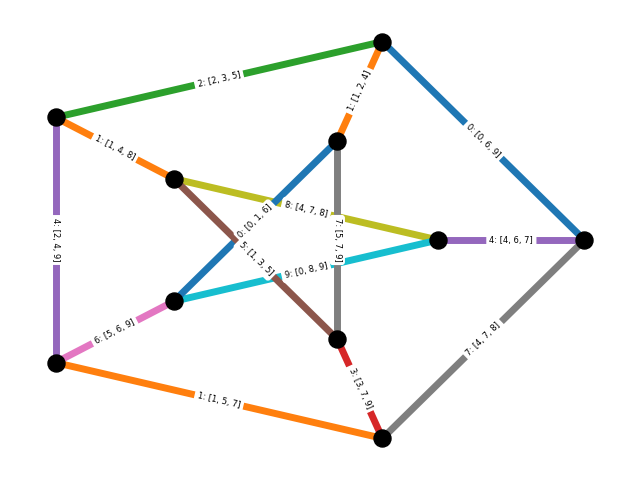
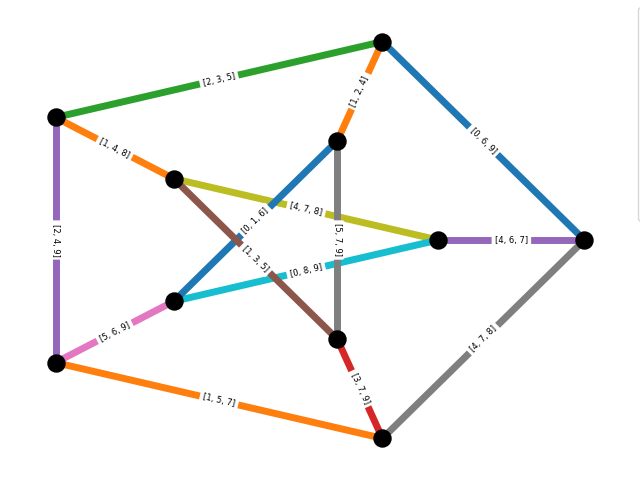
Improve visualisations.

diff --git a/src/petersen-node.py b/src/petersen-node.py
@@ -5,30 +5,28 @@ import matplotlib.patches as mpatches
 import vizing as vz
 
 G = nx.petersen_graph()
-G = lc.list_init_node(G, range(1, 10), 3, 0)
+G = lc.list_init_node(G, range(0, 10), 3, 0)
 G = vz.node_list_colouring_solution(G)
 
 G_layout = nx.shell_layout(G, nlist = [range(5, 10), range(5)], rotate = 0.)
 
-node_labels = dict([(n, str(d['colour']) + ': ' + str(d['permissible'])) for n, d in G.nodes(data = True)])
+node_labels = dict([(n, str(sorted(d['permissible']))) for n, d in G.nodes(data = True)])
 
 node_colors = set(nx.get_node_attributes(G, 'colour').values())
 
-patches = [mpatches.Patch(color = plt.cm.tab10(i), label = f'{i}') for i in node_colors]
-
 nx.draw(G,
         G_layout,
-        edge_color = "black",
-        node_color = list(nx.get_node_attributes(G, 'colour').values()),
-        node_shape = 's',
-        width = 10,
-        node_size = 1300,
-        cmap = plt.cm.tab10,
-        labels = node_labels,
-        font_size = 6,
+         edge_color = "black",
+         node_color = list(nx.get_node_attributes(G, 'colour').values()),
+              width = 4,
+          node_size = 1000,
+               cmap = plt.cm.tab10,
+             labels = node_labels,
+          font_size = 6,
         with_labels = True
 )
 
-plt.legend(handles = patches, title = "Colours", bbox_to_anchor = (1, 1))
+patches = [mpatches.Patch(color = plt.cm.tab10(i), label = f'{i}') for i in range(1, 10)]
+plt.legend(handles = patches, bbox_to_anchor = (1.1, 1))
 
 plt.savefig("png/petersen-node.png", format = "PNG")

diff --git a/src/petersen-edge.py b/src/petersen-edge.py
@@ -14,18 +14,18 @@ G_layout = nx.shell_layout(G, nlist = [range(5, 10), range(5)], rotate = 0.)
 edge_colours = nx.get_edge_attributes(G,'colour').values()
 
 nx.draw(G,
-                pos = G_layout,
-         edge_color = edge_colours,
+        pos = G_layout,
+        edge_color = edge_colours,
         with_labels = False,
-          edge_cmap = plt.cm.tab10,
-              width = 5,
-          node_size = 150,
-         node_color = 'black')
+        edge_cmap = plt.cm.tab10,
+        width = 5,
+        node_size = 150,
+        node_color = 'black')
 
-edge_labels = dict([((n1, n2), str(d['colour']) + ': ' + str(sorted(d['permissible']))) for n1, n2, d in G.edges(data = True)])
+edge_labels = dict([((n1, n2), str(sorted(d['permissible']))) for n1, n2, d in G.edges(data = True)])
 X = nx.draw_networkx_edge_labels(G, pos = G_layout, edge_labels = edge_labels, font_size = 6)
 
-patches = [mpatches.Patch(color = plt.cm.tab10(i), label = f'{i}') for i in edge_colours]
-plt.legend(handles = patches, title = "Colours", bbox_to_anchor = (1, 1))
+patches = [mpatches.Patch(color = plt.cm.tab10(i), label = f'{i}') for i in range(10)]
+plt.legend(handles = patches, bbox_to_anchor = (1.1, 1))
 
 plt.savefig("png/petersen-edge.png", format = "PNG")
